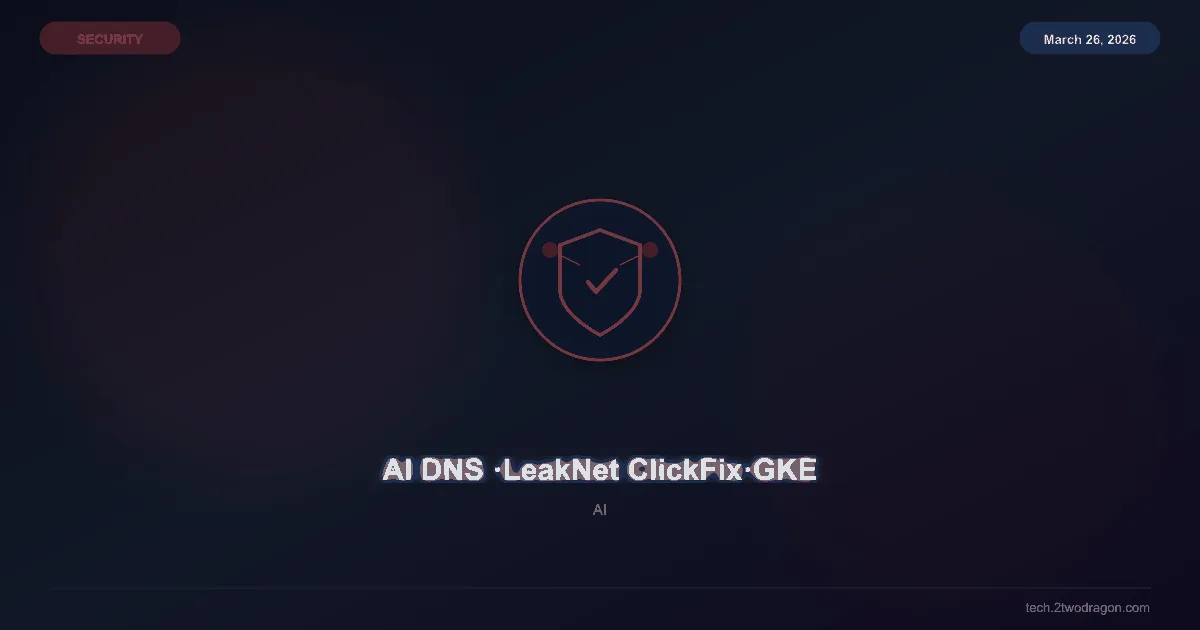
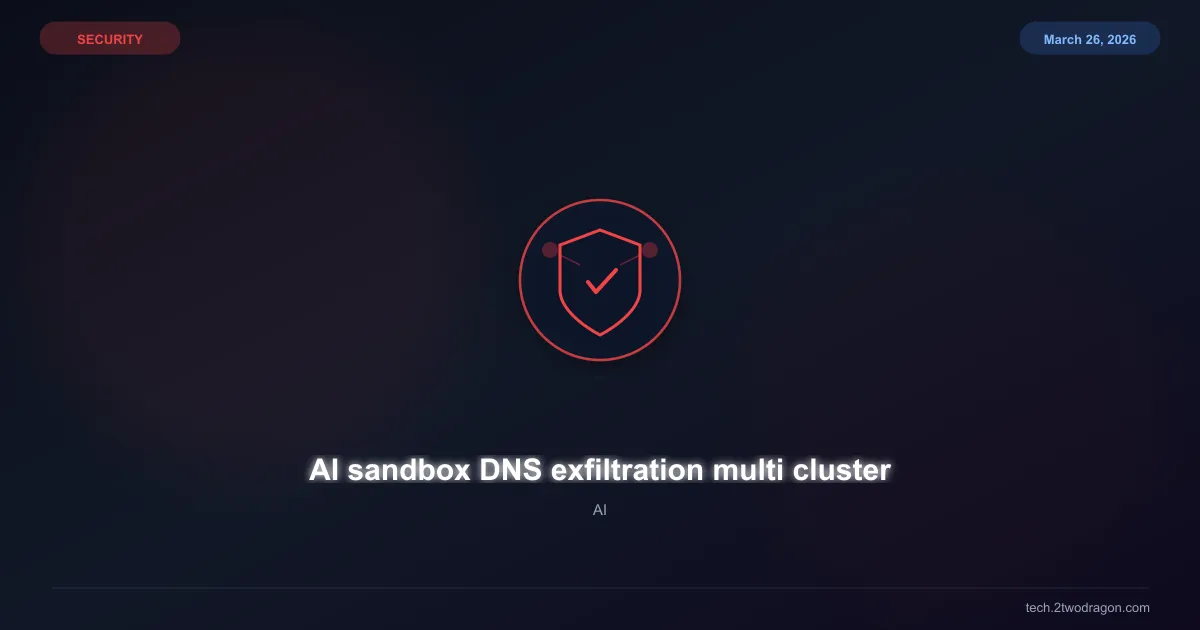
feat: AVIF preload + SW 콘텐츠 협상 + 03-18~20 제목 복원 + CLI 옵션
- head.html: AVIF preload 최우선 + PNG 폴백 (LCP 개선)
- sw.js: _og.png 요청 시 Accept 헤더 기반 AVIF/WebP 자동 협상
- 03-18~20 SVG 제목 복원 (한글 공백 → 영문 image_alt 기반)
- generate_post_images.py: --webp-only / --avif-only 옵션 추가

diff --git a/_includes/head.html b/_includes/head.html
@@ -178,8 +178,11 @@
   <link rel="dns-prefetch" href="https://www.gstatic.com">
   
   {% if page.layout == 'post' and page.image %}
-  <!-- Preload critical post image -->
-  <link rel="preload" href="{{ page.image | relative_url }}" as="image" fetchpriority="high">
+  <!-- Preload critical post image (AVIF priority for LCP) -->
+  {% assign preload_img = page.image | relative_url %}
+  {% assign preload_avif = preload_img | replace: '_og.png', '_og.avif' %}
+  <link rel="preload" href="{{ preload_avif }}" as="image" type="image/avif" fetchpriority="high">
+  <link rel="preload" href="{{ preload_img }}" as="image" fetchpriority="low">
   {% endif %}
   
   <!-- Ad Optimizer (CLS 방지, deferred for performance) -->

diff --git a/sw.js b/sw.js
@@ -156,6 +156,23 @@ self.addEventListener('fetch', (event) => {
     return;
   }
 
+  // 이미지 요청 시 AVIF/WebP 콘텐츠 협상
+  if (url.pathname.match(/\/_og\.png$/)) {
+    const accept = request.headers.get('Accept') || '';
+    let bestUrl = url.href;
+    if (accept.includes('image/avif')) {
+      bestUrl = url.href.replace('_og.png', '_og.avif');
+    } else if (accept.includes('image/webp')) {
+      bestUrl = url.href.replace('_og.png', '_og.webp');
+    }
+    if (bestUrl !== url.href) {
+      event.respondWith(
+        fetch(bestUrl).catch(() => fetch(request))
+      );
+      return;
+    }
+  }
+
   // 캐시 가능한 리소스만 처리
   event.respondWith(
     fetch(request)

diff --git a/scripts/generate_post_images.py b/scripts/generate_post_images.py
@@ -1656,6 +1656,16 @@ def main():
         help="이미지 재생성 없이 기존 이미지를 최적화",
     )
     parser.add_argument(
+        "--webp-only",
+        action="store_true",
+        help="기존 PNG에서 WebP만 생성 (SVG/PNG 재생성 없음)",
+    )
+    parser.add_argument(
+        "--avif-only",
+        action="store_true",
+        help="기존 PNG에서 AVIF만 생성 (SVG/PNG 재생성 없음)",
+    )
+    parser.add_argument(
         "--use-pro-image",
         action="store_true",
         help="Gemini 3 Pro Image 모델 사용 강제",
@@ -1722,6 +1732,33 @@ def main():
         posts = sorted(
             POSTS_DIR.glob("*.md"), key=lambda p: p.stat().st_mtime, reverse=True
         )[: args.recent]
+
+    # --webp-only / --avif-only: 기존 PNG에서 변환만 수행
+    if getattr(args, 'webp_only', False) or getattr(args, 'avif_only', False):
+        from pathlib import Path as P
+        pngs = sorted(IMAGES_DIR.glob("*_og.png"))
+        converted = 0
+        for png in pngs:
+            if args.webp_only:
+                webp = png.with_suffix(".webp")
+                if not webp.exists() and CWEBP_PATH:
+                    try:
+                        subprocess.run([CWEBP_PATH, "-q", "80", "-quiet", str(png), "-o", str(webp)], capture_output=True, timeout=30)
+                        if webp.exists():
+                            converted += 1
+                    except Exception:
+                        pass
+            if args.avif_only:
+                avif = png.with_suffix(".avif")
+                if not avif.exists() and AVIFENC_PATH:
+                    try:
+                        subprocess.run([AVIFENC_PATH, "-s", "6", "-q", "40", str(png), str(avif)], capture_output=True, timeout=60)
+                        if avif.exists():
+                            converted += 1
+                    except Exception:
+                        pass
+        log_message(f"✅ {converted}개 파일 변환 완료", "SUCCESS")
+        sys.exit(0)
 
     if not posts:
         log_message("❌ 처리할 포스팅이 없습니다.", "ERROR")
